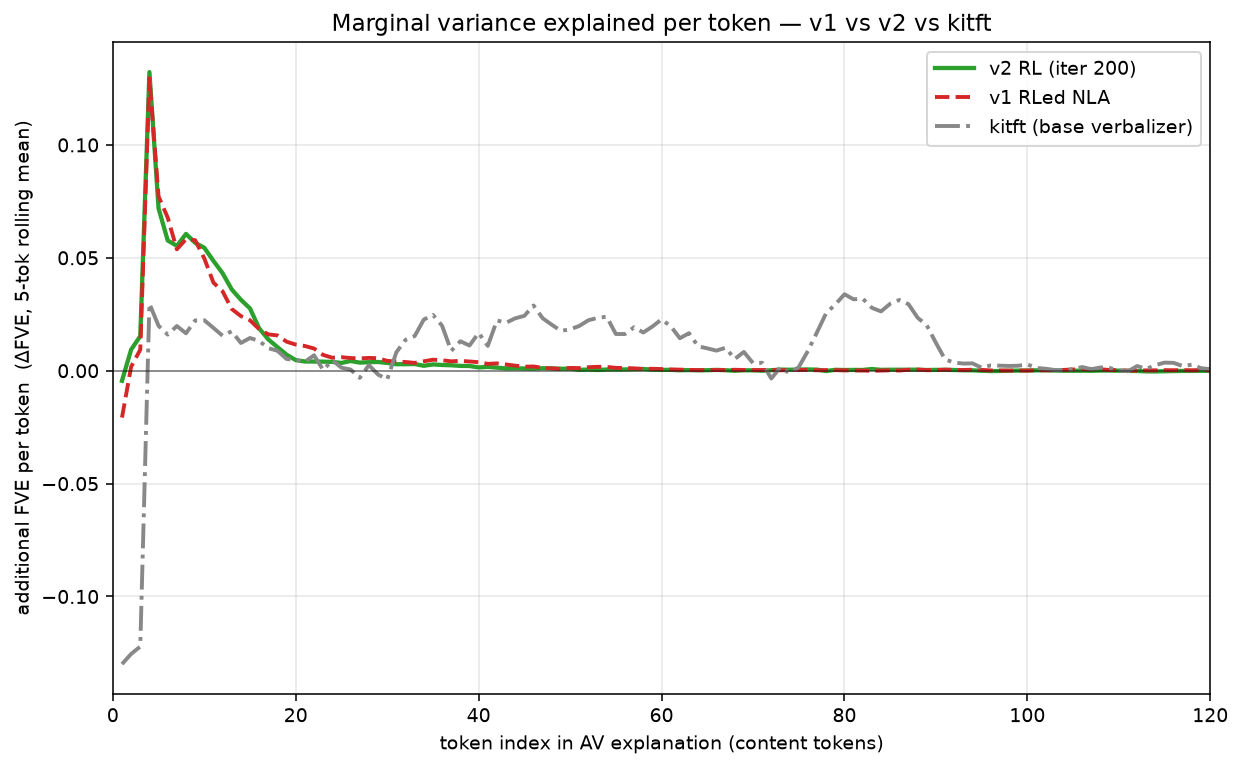
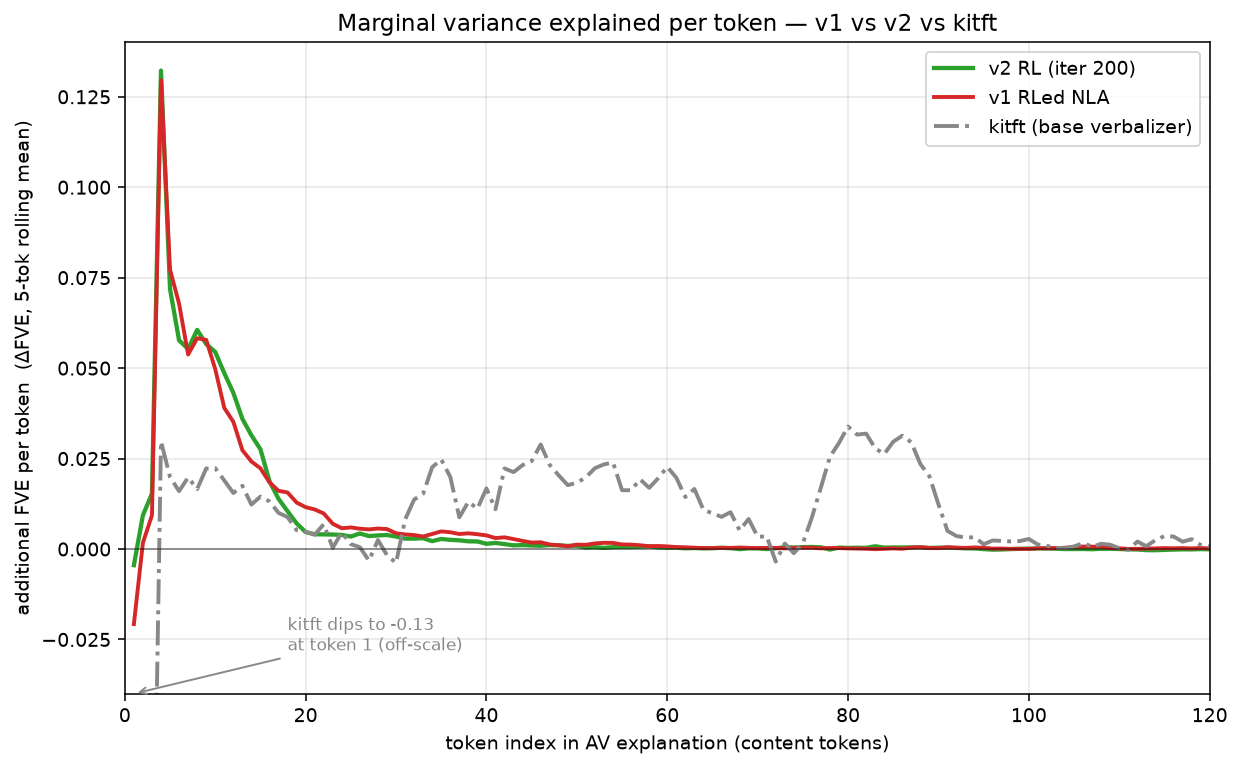
🎨 Per-token marginal graph: v1+v2 both solid, clip y-axis (kitft dip annotated off-scale)
Claude-Session: https://claude.ai/code/session_013QpD8gUKVwdg5FeGc2gDm2

diff --git a/experiments/qwen2.5-matryoshka-warmstart-sonnet46/fve_truncation_sweep/plot_marginal_pertoken_v1_v2_kitft.py b/experiments/qwen2.5-matryoshka-warmstart-sonnet46/fve_truncation_sweep/plot_marginal_pertoken_v1_v2_kitft.py
@@ -16,9 +16,10 @@ XCAP_TOK = 120
 WIN = 5
 SRCS = [
     ("_iter0000200", "v2 RL (iter 200)", "#2ca02c", "-", 2.2),
-    ("", "v1 RLed NLA", "#d62728", "--", 2.0),
+    ("", "v1 RLed NLA", "#d62728", "-", 2.0),
     ("_kitft", "kitft (base verbalizer)", "#888888", "-.", 2.0),
 ]
+YMIN, YMAX = -0.04, 0.14   # clip so the main curves fill the panel
 
 
 def load(suf, cap):
@@ -40,11 +41,19 @@ def smooth(y, w):
 
 
 fig, ax = plt.subplots(figsize=(9, 5.6))
+kmin = None
 for suf, lab, color, ls, lw in SRCS:
     L, F = load(suf, XCAP_TOK)
-    ax.plot(L, smooth(marginal(F), WIN), color=color, ls=ls, lw=lw, label=lab)
+    y = smooth(marginal(F), WIN)
+    ax.plot(L, y, color=color, ls=ls, lw=lw, label=lab)
+    if suf == "_kitft":
+        kmin = (float(y.min()), int(L[int(y.argmin())]))
 ax.axhline(0, color="k", lw=.8, alpha=.5)
-ax.set_xlim(0, XCAP_TOK)
+ax.set_xlim(0, XCAP_TOK); ax.set_ylim(YMIN, YMAX)
+if kmin and kmin[0] < YMIN:
+    ax.annotate(f"kitft dips to {kmin[0]:.2f}\nat token {kmin[1]} (off-scale)",
+                xy=(kmin[1], YMIN), xytext=(18, YMIN + 0.012), fontsize=8.5, color="#888888",
+                arrowprops=dict(arrowstyle="->", color="#888888", lw=1))
 ax.set_xlabel("token index in AV explanation (content tokens)")
 ax.set_ylabel(f"additional FVE per token  (ΔFVE, {WIN}-tok rolling mean)")
 ax.set_title("Marginal variance explained per token — v1 vs v2 vs kitft")